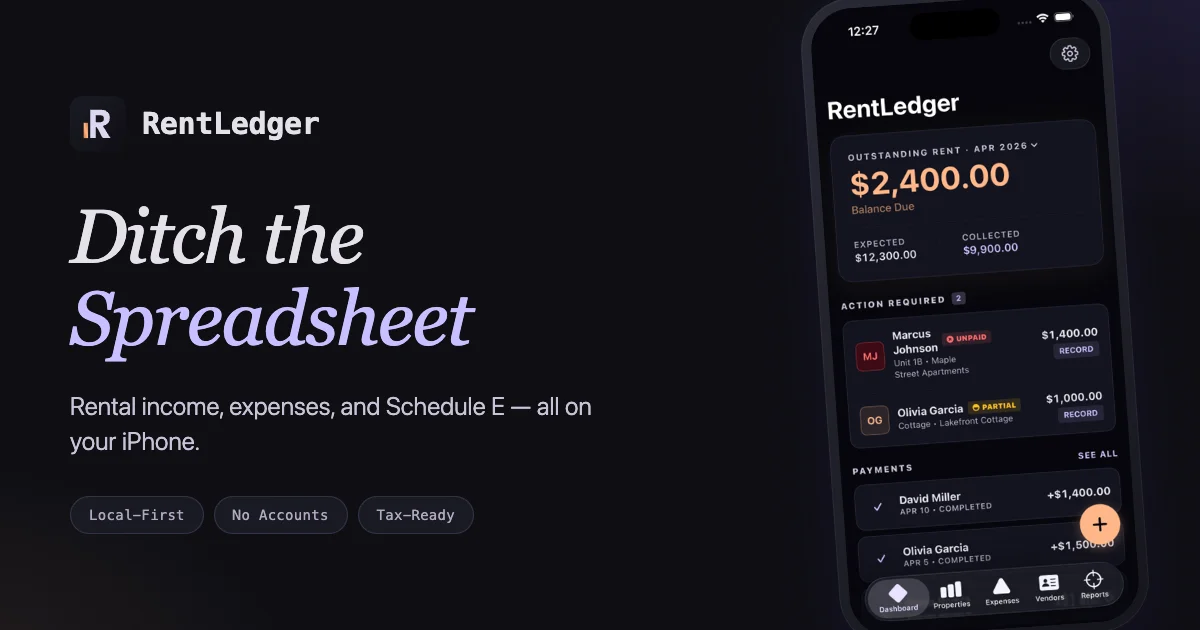
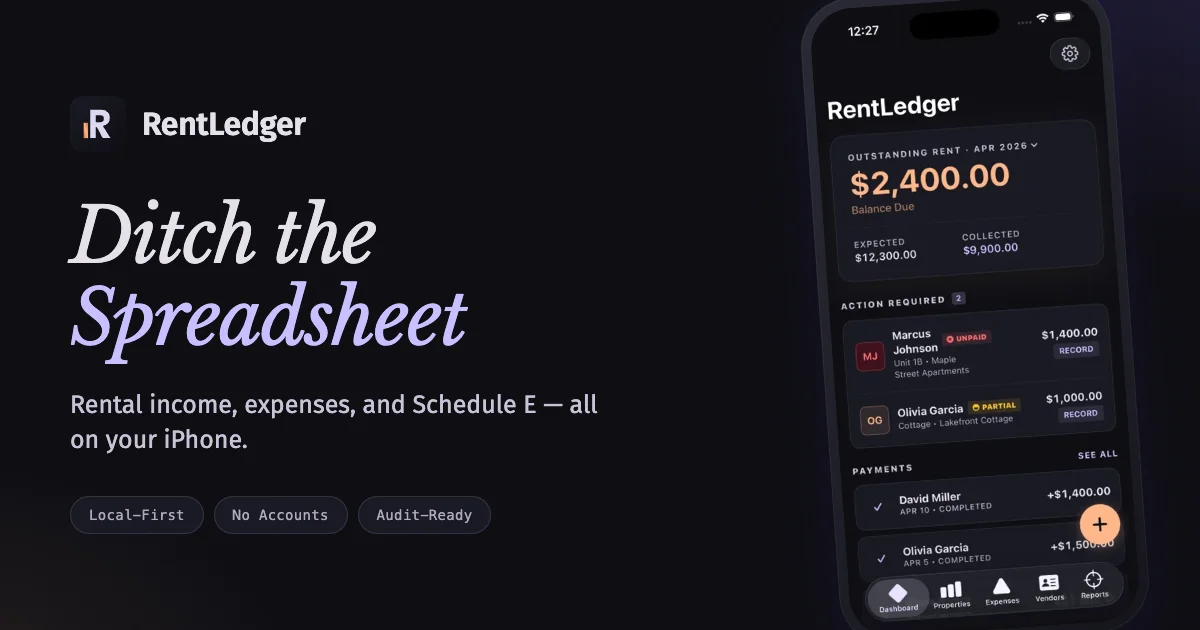
fix(ui): brand wordmark to match iOS app (Fira Sans, not Fira Code)
The app renders "RentLedger" in SF Pro Semibold (iOS system font).
The website was using Fira Code (monospace), which produced a visibly
different wordmark across touchpoints — caught by Praneet during review.

- Changed nav .logo and .footer-brand .logo in all 5 pages:
  Fira Code 700 → Fira Sans 600, with -0.01em letter-spacing
- Fira Sans is the closest free Google Font to SF Pro and we already
  load it as the body font; zero new asset weight
- Regenerated og-image.webp with the matching wordmark so social
  shares look consistent (also swapped "Privacy by Default" badge
  to "Audit-Ready" to align with the home trust strip)

Other Fira Code usages (section labels, pricing tier labels, code
blocks, .code in 404) stay monospace — those are stylistic, not
brand wordmark.

diff --git a/pricing/index.html b/pricing/index.html
@@ -169,9 +169,10 @@
         }
 
         nav .logo {
-            font-family: 'Fira Code', monospace;
-            font-weight: 700;
+            font-family: 'Fira Sans', sans-serif;
+            font-weight: 600;
             font-size: 1.125rem;
+            letter-spacing: -0.01em;
             color: var(--text-primary);
             display: flex;
             align-items: center;
@@ -531,9 +532,10 @@
             gap: 2rem;
         }
         .footer-brand .logo {
-            font-family: 'Fira Code', monospace;
-            font-weight: 700;
+            font-family: 'Fira Sans', sans-serif;
+            font-weight: 600;
             font-size: 1.125rem;
+            letter-spacing: -0.01em;
             color: var(--text-primary);
             margin-bottom: 0.5rem;
             display: flex;

diff --git a/index.html b/index.html
@@ -228,9 +228,10 @@
         }
 
         nav .logo {
-            font-family: 'Fira Code', monospace;
-            font-weight: 700;
+            font-family: 'Fira Sans', sans-serif;
+            font-weight: 600;
             font-size: 1.125rem;
+            letter-spacing: -0.01em;
             color: var(--text-primary);
             display: flex;
             align-items: center;
@@ -908,9 +909,10 @@
         }
 
         .footer-brand .logo {
-            font-family: 'Fira Code', monospace;
-            font-weight: 700;
+            font-family: 'Fira Sans', sans-serif;
+            font-weight: 600;
             font-size: 1.125rem;
+            letter-spacing: -0.01em;
             color: var(--text-primary);
             margin-bottom: 0.5rem;
             display: flex;

diff --git a/support/index.html b/support/index.html
@@ -137,9 +137,10 @@
         }
 
         nav .logo {
-            font-family: 'Fira Code', monospace;
-            font-weight: 700;
+            font-family: 'Fira Sans', sans-serif;
+            font-weight: 600;
             font-size: 1.125rem;
+            letter-spacing: -0.01em;
             color: var(--text-primary);
             display: flex;
             align-items: center;
@@ -585,9 +586,10 @@
         }
 
         .footer-brand .logo {
-            font-family: 'Fira Code', monospace;
-            font-weight: 700;
+            font-family: 'Fira Sans', sans-serif;
+            font-weight: 600;
             font-size: 1.125rem;
+            letter-spacing: -0.01em;
             color: var(--text-primary);
             margin-bottom: 0.5rem;
             display: flex;

diff --git a/_layouts/default.html b/_layouts/default.html
@@ -86,9 +86,10 @@
         }
 
         nav .logo {
-            font-family: 'Fira Code', monospace;
-            font-weight: 700;
+            font-family: 'Fira Sans', sans-serif;
+            font-weight: 600;
             font-size: 1.125rem;
+            letter-spacing: -0.01em;
             color: var(--text-primary);
             display: flex;
             align-items: center;
@@ -226,9 +227,10 @@
         }
 
         .footer-brand .logo {
-            font-family: 'Fira Code', monospace;
-            font-weight: 700;
+            font-family: 'Fira Sans', sans-serif;
+            font-weight: 600;
             font-size: 1.125rem;
+            letter-spacing: -0.01em;
             color: var(--text-primary);
             margin-bottom: 0.5rem;
             display: flex;

diff --git a/404.html b/404.html
@@ -147,9 +147,10 @@
             display: flex;
             align-items: center;
             gap: 0.625rem;
-            font-family: 'Fira Code', monospace;
-            font-weight: 700;
+            font-family: 'Fira Sans', sans-serif;
+            font-weight: 600;
             font-size: 1.125rem;
+            letter-spacing: -0.01em;
             color: var(--text-primary);
             text-decoration: none;
         }
